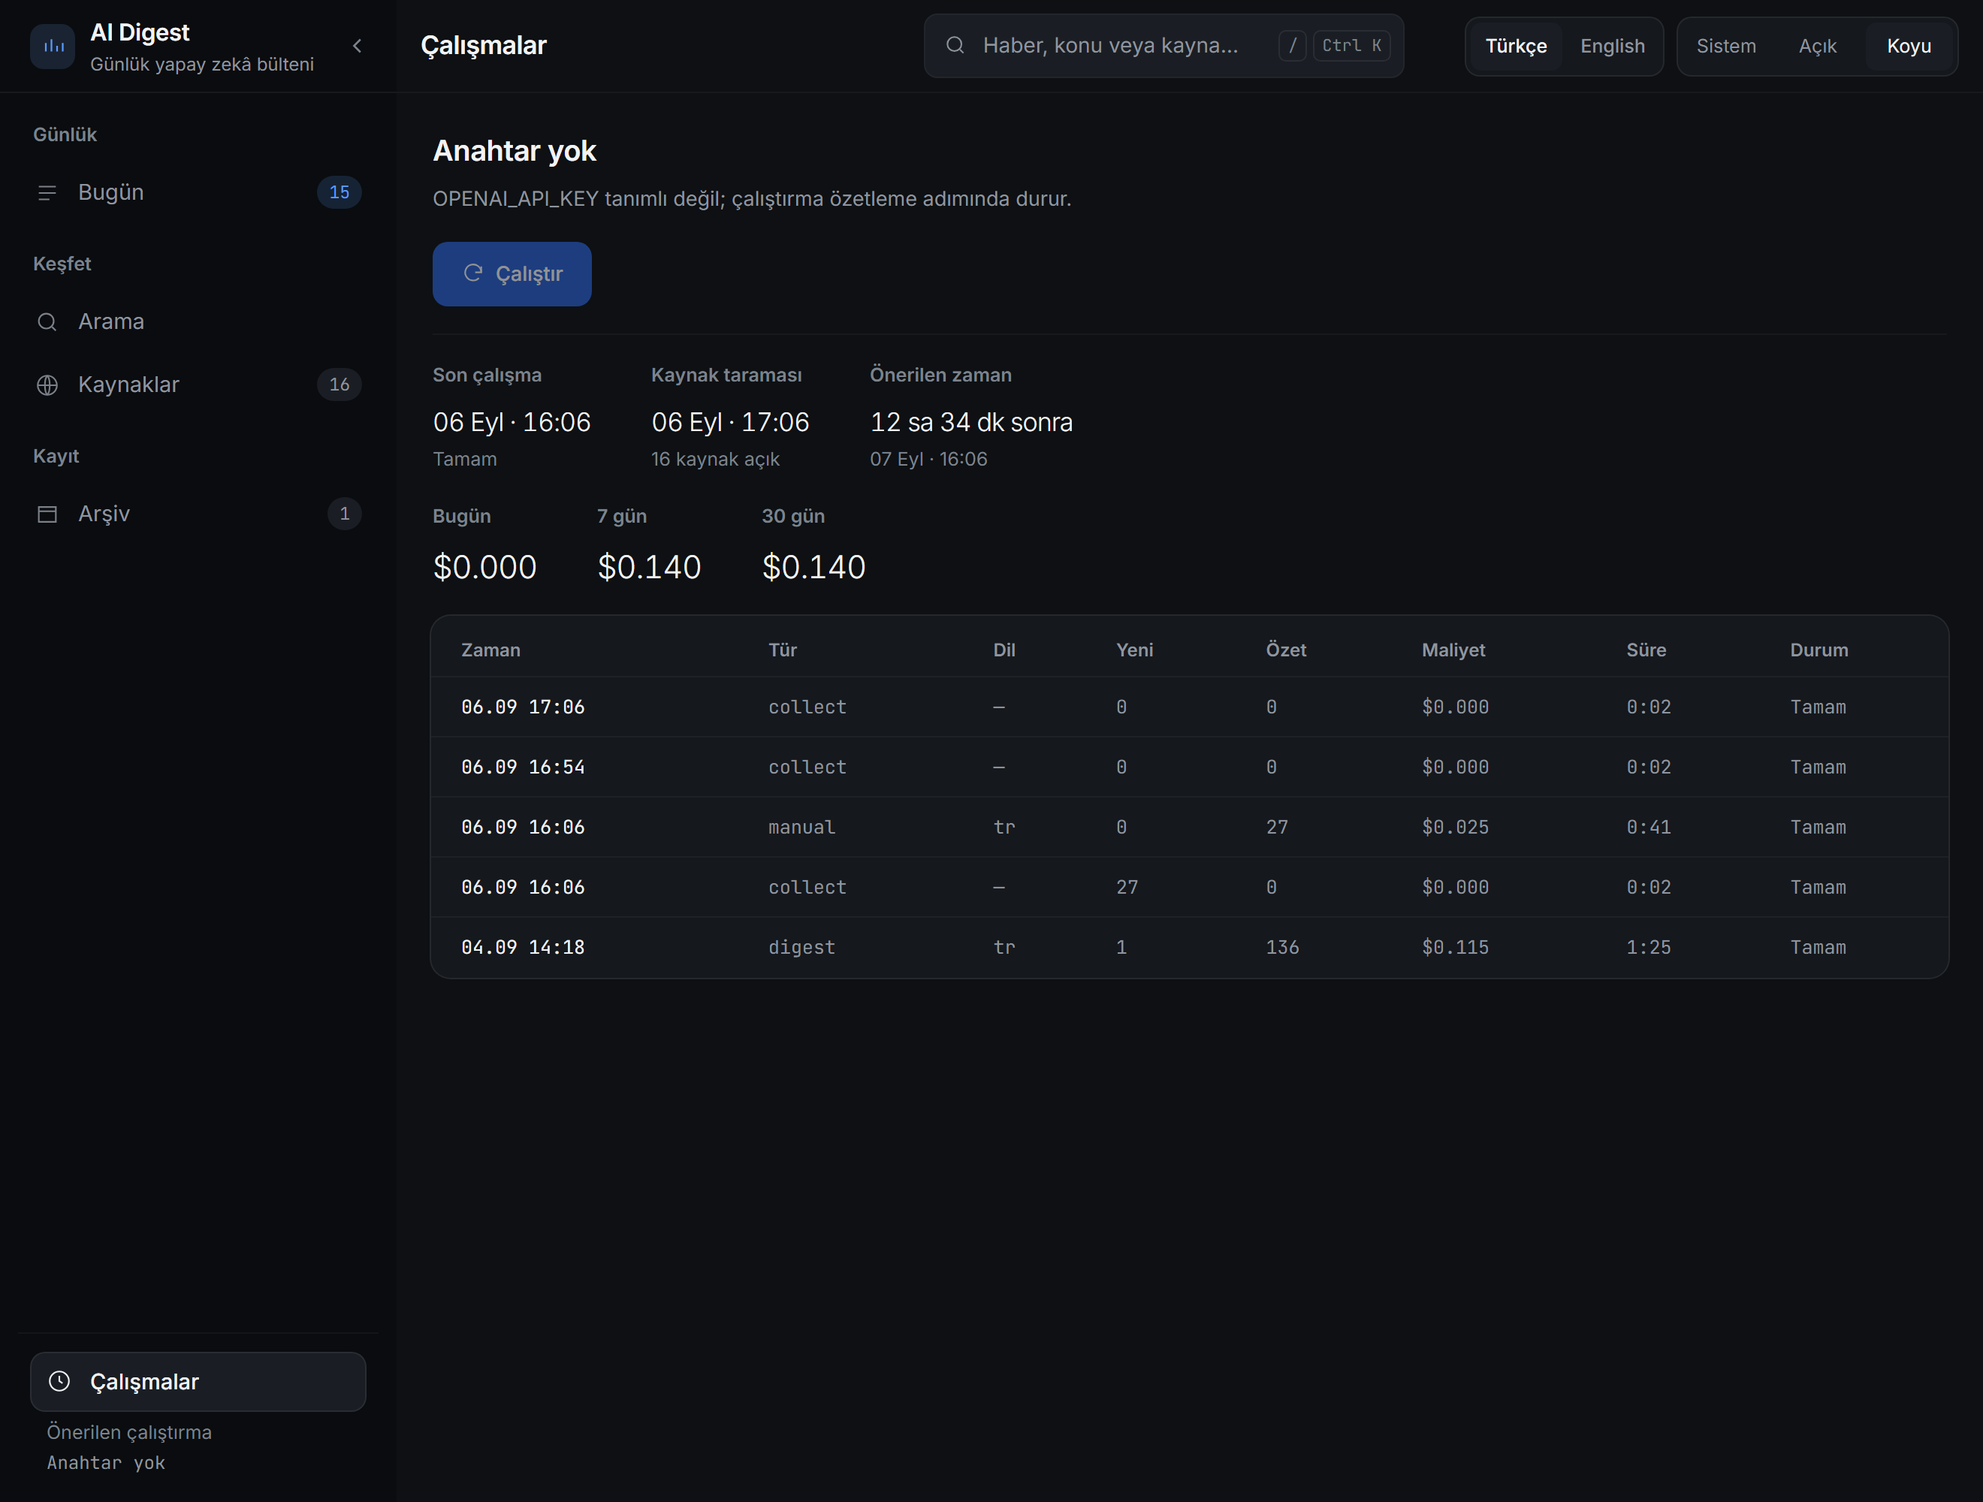
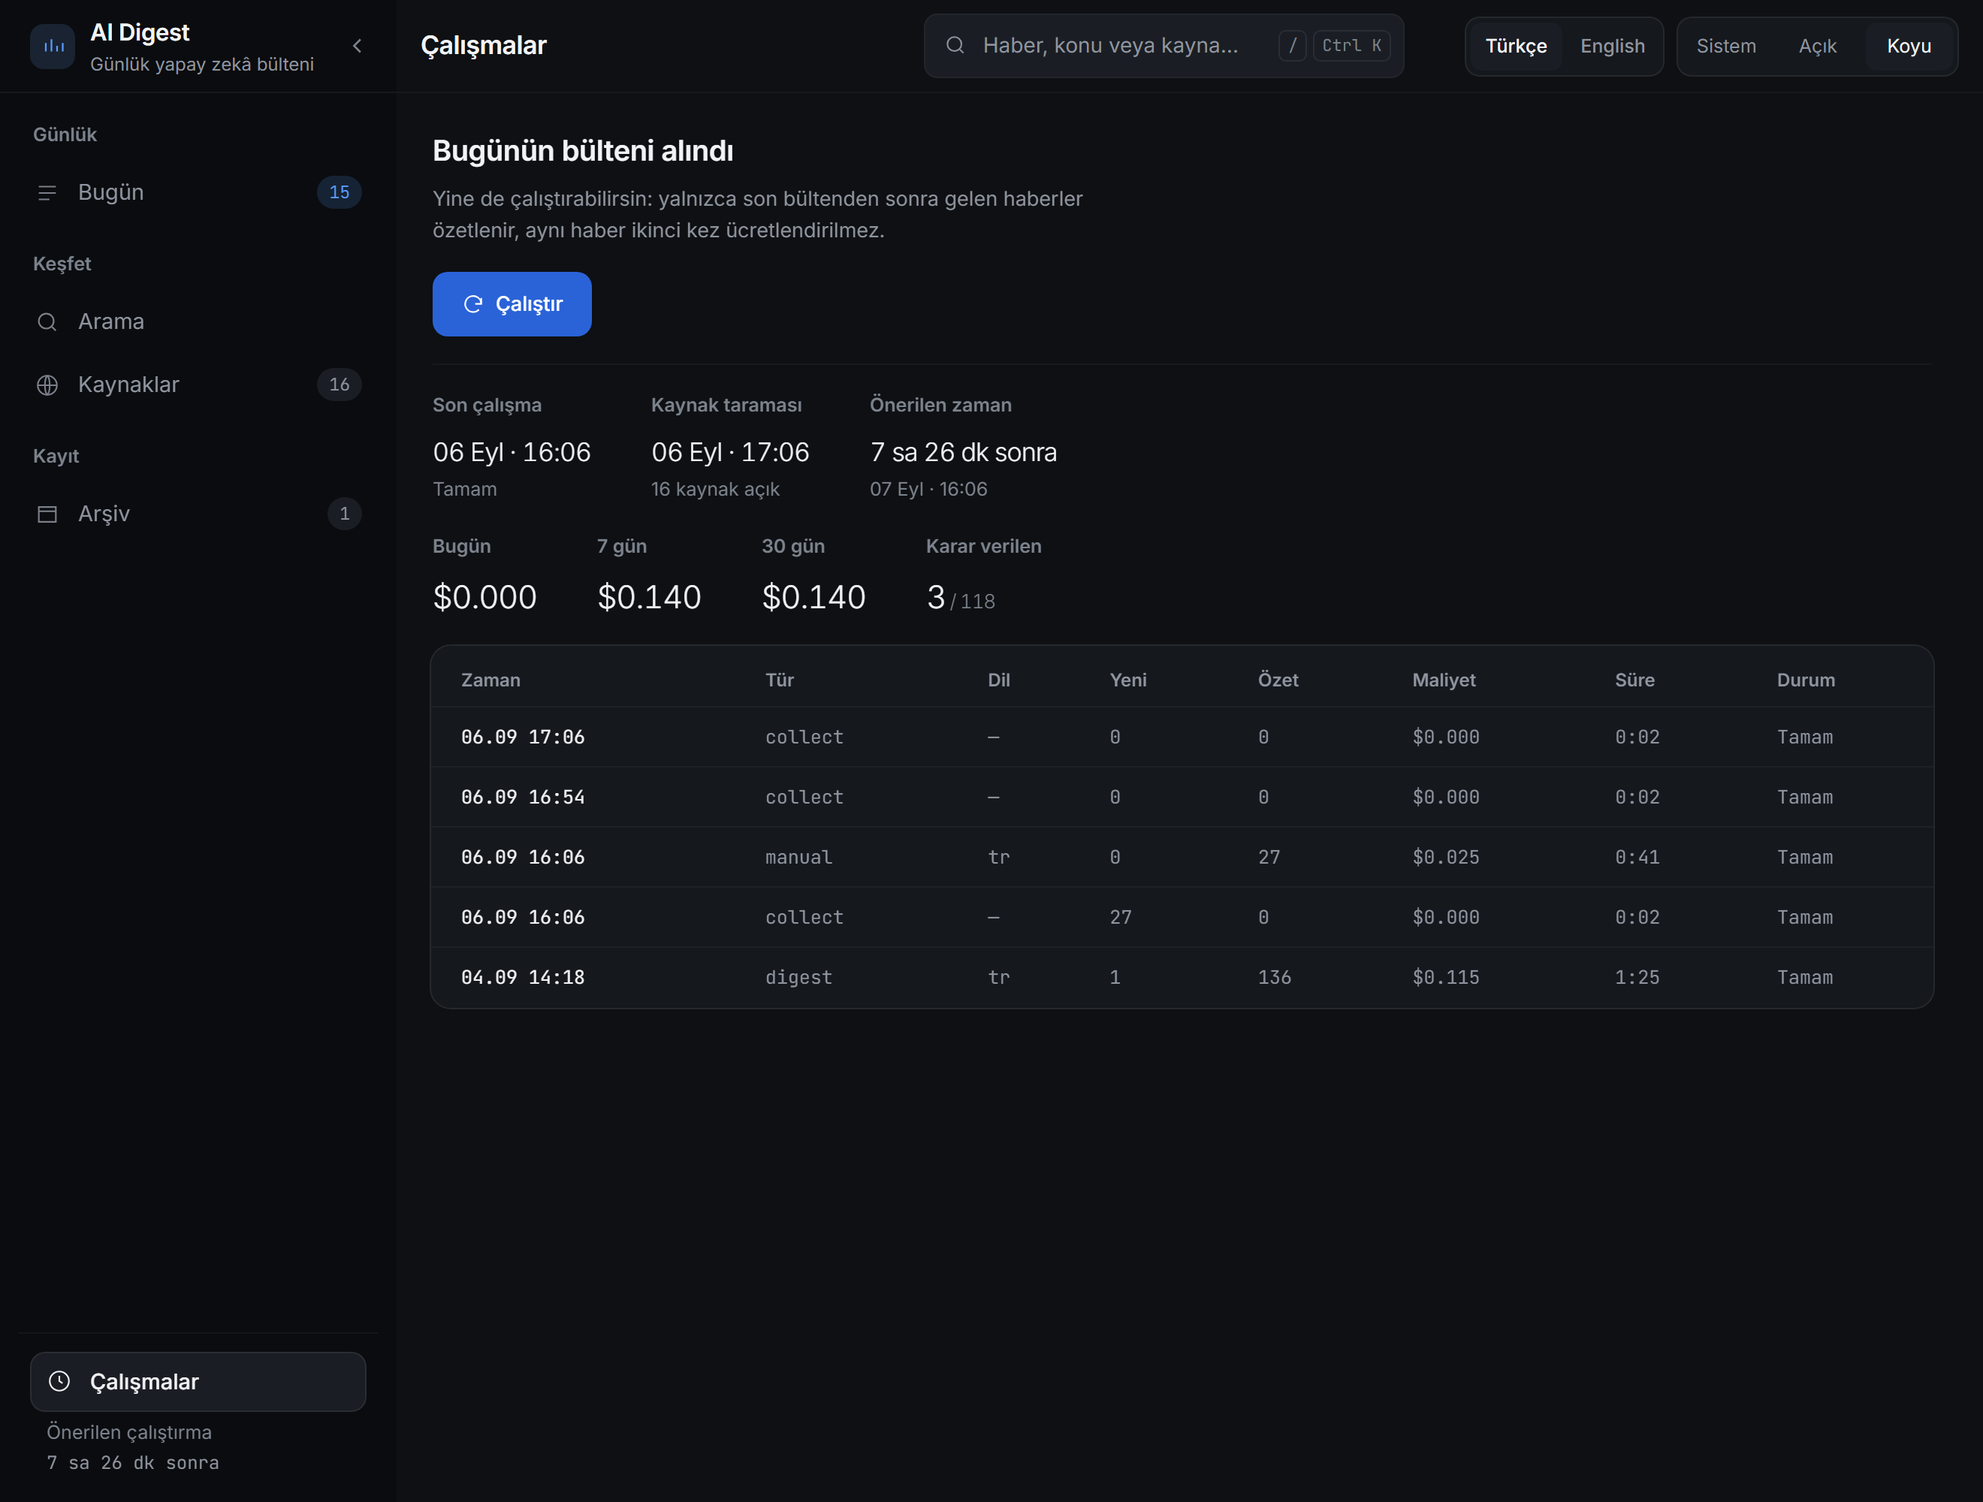
A step is priced the way the run is, and a zero token count says so
Three accounting repairs, one screenshot convenience, and the documents that
had gone stale around them.

`usage_from_message` fell through to the legacy `token_usage` only when
`usage_metadata` was absent. A present dict whose keys have been renamed
upstream reads as zero on both counts and used to return there, skipping the
path that might still have answered. It now falls through on unusable counts
rather than on a missing dict, and warns when neither path has an answer: a
completed call always spent input tokens, so zero is accounting that has
stopped working, and it is silent all the way to `/runs`, where a month of
spend reads as nothing while the money leaves.

`_rank` and `_fan_out_row` fell back to an empty model string when the state
carried none. `est_cost_usd` prices an empty model at 0.0, which is right for
the four nodes that call nothing and wrong for the two that just spent money -
and `persist_run` meanwhile prices the run's total from `settings`, so the same
tokens were charged on the run and free on the step. Both now use the same
fallback `persist_run` does.

`scripts/screenshots.py` takes named shots. The pictures are captured against
live data, so a one-page change used to bring back five other files a few
pixels different.

CLAUDE.md said the repo did not exist yet and that M0 had not started; the
README's ADR table stopped at 0007 and its test count was 62 short.

diff --git a/tests/test_run_steps.py b/tests/test_run_steps.py
@@ -144,6 +144,49 @@ async def test_the_steps_costs_add_up_to_the_runs_cost(
     assert all(by_node[n].est_cost_usd == 0.0 for n in ("collect", "dedupe", "enrich", "persist"))
 
 
+async def test_the_costs_add_up_when_the_state_carries_no_model(
+    session: AsyncSession, settings: Settings, fake_llm: None, monkeypatch: pytest.MonkeyPatch
+) -> None:
+    """`persist_run` prices the run from `settings` when the state names no
+    model; the two step rows used to fall back to an empty string instead, and
+    `est_cost_usd` reads an empty model as zero. The run row then charged for
+    the tokens while its own breakdown showed a dash in both cost cells - a
+    second set of numbers about the same two minutes, which is the one thing
+    this table exists not to be."""
+    monkeypatch.setattr(graph_module, "collect_articles", _no_collect)
+    monkeypatch.setattr(graph_module, "enrich_articles", _no_enrich)
+    await _seed_articles(session, 3)
+    run = Run(kind="manual", language="tr")
+    session.add(run)
+    await session.commit()
+    # The shape a checkpoint written before ADR 0020 resumes with.
+    await (
+        graph_module.build_graph()
+        .compile()
+        .ainvoke({**INITIAL, "run_id": run.id}, config={"recursion_limit": 50})
+    )
+    rows = await _rows(session, run.id)
+    await session.refresh(run)
+
+    assert run.est_cost_usd > 0
+    assert sum(r.est_cost_usd for r in rows) == pytest.approx(run.est_cost_usd)
+    by_node = {r.node: r for r in rows}
+    assert by_node["summarize"].model == settings.openai_model_summarize
+    assert by_node["rank"].model == settings.openai_model
+
+
+def test_the_two_carrier_ids_are_one_number() -> None:
+    """`TOKEN_CARRIER_ID` is written twice on purpose - `steps.py` says why, and
+    the reason (keeping the persist path out of `runner.py`'s import graph) is
+    sound. Nothing else holds the two in step, and a divergence would be silent
+    in the worst way: `record_fan_out` would count the rank node's carrier
+    payload as a summary and report one more branch than `persist_run` wrote,
+    with no error anywhere."""
+    from ainews.pipeline.nodes.persist import TOKEN_CARRIER_ID as in_persist
+
+    assert in_persist == steps_module.TOKEN_CARRIER_ID
+
+
 async def test_the_counts_are_the_nodes_own(
     session: AsyncSession, settings: Settings, fake_llm: None, monkeypatch: pytest.MonkeyPatch
 ) -> None:

diff --git a/scripts/screenshots.py b/scripts/screenshots.py
@@ -7,7 +7,12 @@ scroll position the last set used.
 It starts the app itself against whatever is in `data/app.db`, so the pictures
 show real summaries rather than fixtures.
 
-    uv run python scripts/screenshots.py
+    uv run python scripts/screenshots.py            # all of them
+    uv run python scripts/screenshots.py runs.png   # just the one that changed
+
+Naming files is what keeps a one-page change from rewriting the other five: the
+pictures are taken against live data, so a shot that did not need refreshing
+still comes back a few pixels different and lands in the diff.
 """
 
 from __future__ import annotations
@@ -61,14 +66,15 @@ def wait_for(url: str, timeout: float = 30.0) -> None:
     raise SystemExit(f"the app never answered on {url}")
 
 
-async def capture(base: str) -> None:
+async def capture(base: str, wanted: list[str]) -> None:
     from playwright.async_api import async_playwright
 
+    shots = [s for s in SHOTS if not wanted or s[1] in wanted]
     OUT.mkdir(parents=True, exist_ok=True)
     async with async_playwright() as p:
         browser = await p.chromium.launch()
         page = await browser.new_page(viewport=VIEWPORT, device_scale_factor=DEVICE_SCALE)
-        for path, name, full_page in SHOTS:
+        for path, name, full_page in shots:
             await page.goto(f"{base}{path}", wait_until="networkidle")
             # The fonts are self-hosted, but they still load asynchronously and a
             # screenshot taken mid-swap shows the fallback stack.
@@ -78,7 +84,13 @@ async def capture(base: str) -> None:
         await browser.close()
 
 
-def main() -> int:
+def main(argv: list[str] | None = None) -> int:
+    wanted = list(argv if argv is not None else sys.argv[1:])
+    known = {name for _, name, _ in SHOTS}
+    if unknown := [name for name in wanted if name not in known]:
+        raise SystemExit(
+            f"no such screenshot: {', '.join(unknown)}; known: {', '.join(sorted(known))}"
+        )
     port = free_port()
     base = f"http://127.0.0.1:{port}"
     env = dict(os.environ)
@@ -101,7 +113,7 @@ def main() -> int:
     )
     try:
         wait_for(f"{base}/health")
-        asyncio.run(capture(base))
+        asyncio.run(capture(base, wanted))
     finally:
         server.terminate()
         server.wait(timeout=10)

diff --git a/src/ainews/pipeline/llm.py b/src/ainews/pipeline/llm.py
@@ -67,11 +67,26 @@ def usage_from_message(message: Any) -> Usage:
     honest way to cost a run.
     """
     metadata = getattr(message, "usage_metadata", None) or {}
-    if metadata:
-        return Usage(int(metadata.get("input_tokens", 0)), int(metadata.get("output_tokens", 0)))
-    response_metadata = getattr(message, "response_metadata", None) or {}
-    legacy = response_metadata.get("token_usage") or {}
-    return Usage(int(legacy.get("prompt_tokens", 0)), int(legacy.get("completion_tokens", 0)))
+    tokens_in = int(metadata.get("input_tokens", 0))
+    tokens_out = int(metadata.get("output_tokens", 0))
+    # Fall through on *unusable* counts, not on a missing dict. A present
+    # `usage_metadata` whose keys have been renamed upstream reads as zero and
+    # used to return here, skipping the legacy path that might still have
+    # answered.
+    if not tokens_in and not tokens_out:
+        legacy = (getattr(message, "response_metadata", None) or {}).get("token_usage") or {}
+        tokens_in = int(legacy.get("prompt_tokens", 0))
+        tokens_out = int(legacy.get("completion_tokens", 0))
+    if not tokens_in and not tokens_out:
+        # Say so. A completed call always spent input tokens, so zero here is
+        # not a cheap call - it is accounting that has stopped working, and it
+        # is silent all the way to the screen: every row costs $0.000 and
+        # `/runs` reports a month of spend as nothing while the money leaves.
+        # `pricing.price_for` makes the same noise for a model it cannot price,
+        # for the same reason - a surprise in the billing dashboard is worse
+        # than a bad number in ours.
+        log.warning("no token usage on a %s; this call is costed at zero", type(message).__name__)
+    return Usage(tokens_in, tokens_out)
 
 
 def make_llm(model: str, settings: Settings | None = None, **kwargs: Any) -> ChatOpenAI:

diff --git a/tests/test_graph.py b/tests/test_graph.py
@@ -8,6 +8,7 @@ gets its numbers.
 
 from __future__ import annotations
 
+import logging
 from typing import Any
 
 import pytest
@@ -166,6 +167,39 @@ def test_usage_falls_back_to_legacy_metadata() -> None:
 
     usage = usage_from_message(Legacy())
     assert (usage.tokens_in, usage.tokens_out) == (10, 3)
+
+
+def test_usage_falls_through_when_the_modern_keys_are_renamed() -> None:
+    """The legacy branch used to be reached only when `usage_metadata` was
+    missing. A dict that is present but whose keys have been renamed upstream
+    read as zero and returned there, so the fallback that still had the numbers
+    was never consulted."""
+
+    class Renamed:
+        def __init__(self) -> None:
+            self.usage_metadata = {"inputTokens": 900, "outputTokens": 300}
+            self.response_metadata = {
+                "token_usage": {"prompt_tokens": 900, "completion_tokens": 300}
+            }
+
+    usage = usage_from_message(Renamed())
+    assert (usage.tokens_in, usage.tokens_out) == (900, 300)
+
+
+def test_usage_that_cannot_be_read_says_so(caplog: pytest.LogCaptureFixture) -> None:
+    """A completed call always spent input tokens, so zero is not a cheap call -
+    it is accounting that has stopped working. Silent, it reaches the screen as
+    `$0.000` on every row and a month of spend reported as nothing, which is the
+    surprise `/runs` exists to prevent."""
+
+    class Blank:
+        pass
+
+    with caplog.at_level(logging.WARNING, logger="ainews.pipeline.llm"):
+        usage = usage_from_message(Blank())
+
+    assert (usage.tokens_in, usage.tokens_out) == (0, 0)
+    assert "no token usage" in caplog.text
 
 
 # -- the graph ----------------------------------------------------------------

diff --git a/src/ainews/pipeline/steps.py b/src/ainews/pipeline/steps.py
@@ -56,6 +56,7 @@ from datetime import datetime
 
 from sqlalchemy import select
 
+from ainews.config import get_settings
 from ainews.db import RunStep
 from ainews.db.models import utcnow
 from ainews.db.session import session_scope
@@ -223,8 +224,14 @@ async def _fan_out_row(state: PipelineState) -> None:
     n_out = len({p["article_id"] for p in payloads})
     record = StepRecord(started_at=enrich.finished_at)
     record.counts(n_in, n_out)
+    # The same fallback `persist_run` uses, and it has to be the same one: that
+    # node prices the run's total from `settings` when the state carries no
+    # model, so an empty string here would cost the step at nothing while the
+    # row above it charges for the tokens. `est_cost_usd` returns 0.0 for an
+    # empty model, which is right for the four nodes that call nothing and wrong
+    # for the one that just spent money.
     record.spend(
-        state.get("model_summarize") or "",
+        state.get("model_summarize") or get_settings().openai_model_summarize,
         sum(p["tokens_in"] for p in payloads),
         sum(p["tokens_out"] for p in payloads),
     )

diff --git a/src/ainews/pipeline/graph.py b/src/ainews/pipeline/graph.py
@@ -143,7 +143,9 @@ async def _rank(
         summaries, meta, state["language"], model=state.get("model_rank")
     )
     s.counts(len(summaries), len(ordered))
-    s.spend(state.get("model_rank") or "", tokens_in, tokens_out)
+    # `persist_run`'s fallback, not an empty string: see the note in
+    # `steps.record_fan_out`. The two have to price the same tokens the same way.
+    s.spend(state.get("model_rank") or get_settings().openai_model, tokens_in, tokens_out)
     return {
         "ranked": [{"article_id": aid, "rank": i} for i, aid in enumerate(ordered, start=1)],
         "editor_note": note,

diff --git a/README.md b/README.md
@@ -123,7 +123,9 @@ in a billing dashboard.
 | `/runs` | Every run with its cost, duration and errors, and how many summaries carry your verdict. |
 | `/runs/<id>` | One run, node by node: which step took the time, which took the money, and which model wrote it (ADR 0022). Click a run's time. |
 
-![Sources and runs](docs/screenshots/sources.png)
+![Sources](docs/screenshots/sources.png)
+
+![Runs](docs/screenshots/runs.png)
 
 Every page wears the same shell — a left rail that is navigation and nothing
 else, and a bar that holds only your own controls: search (`/` or Ctrl-K),
@@ -167,13 +169,26 @@ failed run. `DESIGN.md` lists everything that was deleted and why.
 | [0001](docs/decisions/0001-llm-gpt-5-6-luna.md) | `gpt-5.6-luna` for every LLM node |
 | [0002](docs/decisions/0002-fastapi-htmx-dashboard.md) | FastAPI + Jinja + HTMX, no Node toolchain |
 | [0003](docs/decisions/0003-sqlite-wal-fts5.md) | SQLite in WAL mode, FTS5 for search |
-| [0004](docs/decisions/0004-apscheduler-in-process.md) | APScheduler in the API process, one worker |
+| [0004](docs/decisions/0004-apscheduler-in-process.md) | APScheduler in the API process, one worker — the digest job superseded by 0015; the structure stands |
 | [0005](docs/decisions/0005-no-alembic-in-v1.md) | No migration tool in v1 |
 | [0006](docs/decisions/0006-no-tailwind.md) | No Tailwind; the mockup's CSS ships as-is |
 | [0007](docs/decisions/0007-named-volume-for-sqlite.md) | A named volume for the container's database |
+| [0008](docs/decisions/0008-console-app-shell.md) | A console shell — rail, bar, panels — and a light theme beside the dark one |
+| [0009](docs/decisions/0009-editorial-story-block.md) | The editorial story block, and the shell split into navigation, controls and record |
+| [0010](docs/decisions/0010-activity-column-and-the-secondary-colour.md) | The activity column, and a blue secondary colour |
+| [0011](docs/decisions/0011-two-label-faces-and-the-brief-in-the-side-column.md) | Two faces for small text, and the brief in the side column — the label's size superseded by 0016 |
+| [0012](docs/decisions/0012-the-impact-meter-takes-the-third-colour.md) | The impact meter takes the third colour; *why it matters* becomes a plate |
+| [0013](docs/decisions/0013-the-page-stops-being-a-dashboard.md) | The page stops being a dashboard — partly superseded by 0014 and 0021 |
+| [0014](docs/decisions/0014-no-lead-and-a-bar-that-looks-like-one.md) | No lead story, and a side column that looks like a bar — partly superseded by 0021 |
+| [0015](docs/decisions/0015-the-digest-is-started-by-a-person.md) | The digest is started by a person; the page advises when, and never refuses |
+| [0016](docs/decisions/0016-the-shell-stops-whispering.md) | The shell stops whispering — one step up, sentence case everywhere |
 | [0017](docs/decisions/0017-the-language-switch-stops-choosing-the-content.md) | The switch translates the interface; the press chooses the bulletin's language |
-| [0019](docs/decisions/0019-evaluation-is-a-sibling-command-not-a-test.md) | Evaluation is a sibling command, not a test; the reader's verdict is the ground truth |
 | [0018](docs/decisions/0018-phoenix-behind-a-dev-profile.md) | Per-call tracing in a local Phoenix, behind a dev profile |
+| [0019](docs/decisions/0019-evaluation-is-a-sibling-command-not-a-test.md) | Evaluation is a sibling command, not a test; the reader's verdict is the ground truth |
+| [0020](docs/decisions/0020-the-model-is-chosen-at-the-press.md) | The model is chosen at the press; the environment is only the default |
+| [0021](docs/decisions/0021-one-bar-across-the-shell-and-a-card-per-story.md) | One bar across two rails, a rail that can be put away, and a card per story |
+| [0022](docs/decisions/0022-a-run-is-recorded-node-by-node.md) | A run is recorded node by node, and the graph is a page |
+| [0023](docs/decisions/0023-the-app-does-not-start-an-evaluation.md) | The app does not start an evaluation; the eval layer keeps its one caller |
 
 ## Known limits
 
@@ -208,13 +223,13 @@ failed run. `DESIGN.md` lists everything that was deleted and why.
 
 ```bash
 uv sync
-uv run pytest          # 296 tests, no API key needed, no network calls
+uv run pytest          # 358 tests, no API key needed, no network calls
 uv run ruff check .
 uv run pre-commit install
 ```
 
 Tests use a fake model and `respx` for HTTP, so the whole suite runs offline in
-about six seconds. `langgraph.json` is checked in for `langgraph dev` if you want
+about twenty seconds. `langgraph.json` is checked in for `langgraph dev` if you want
 to step through the graph in Studio.
 
 ### Looking inside a run
